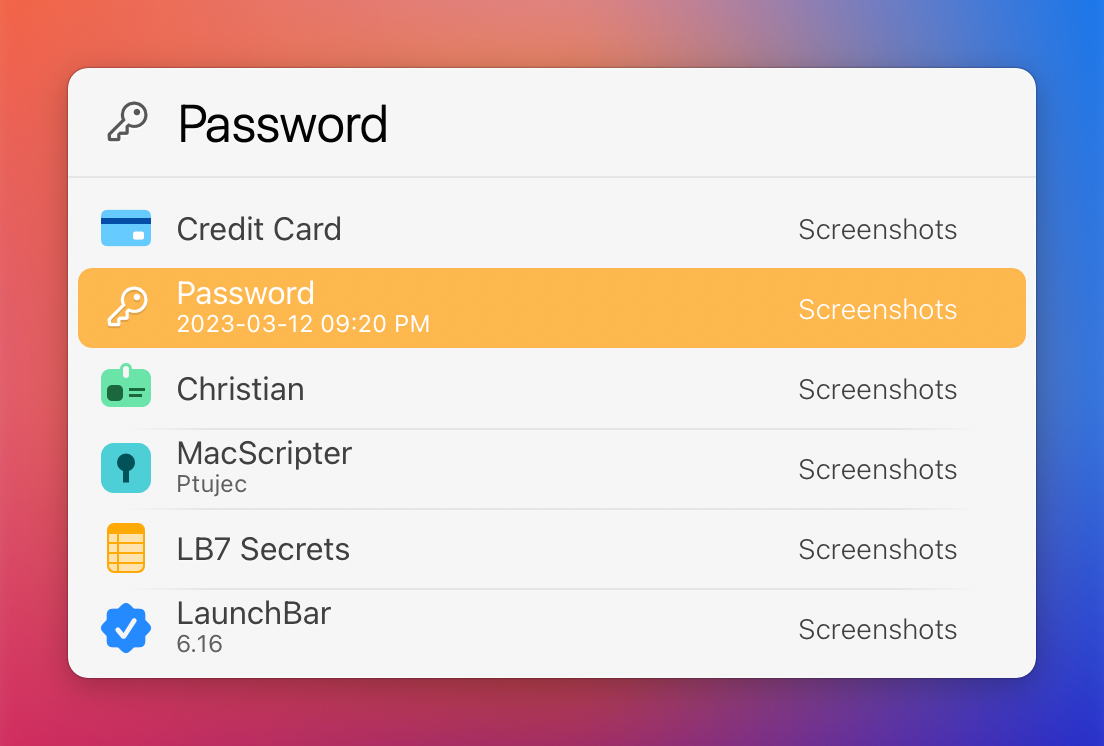
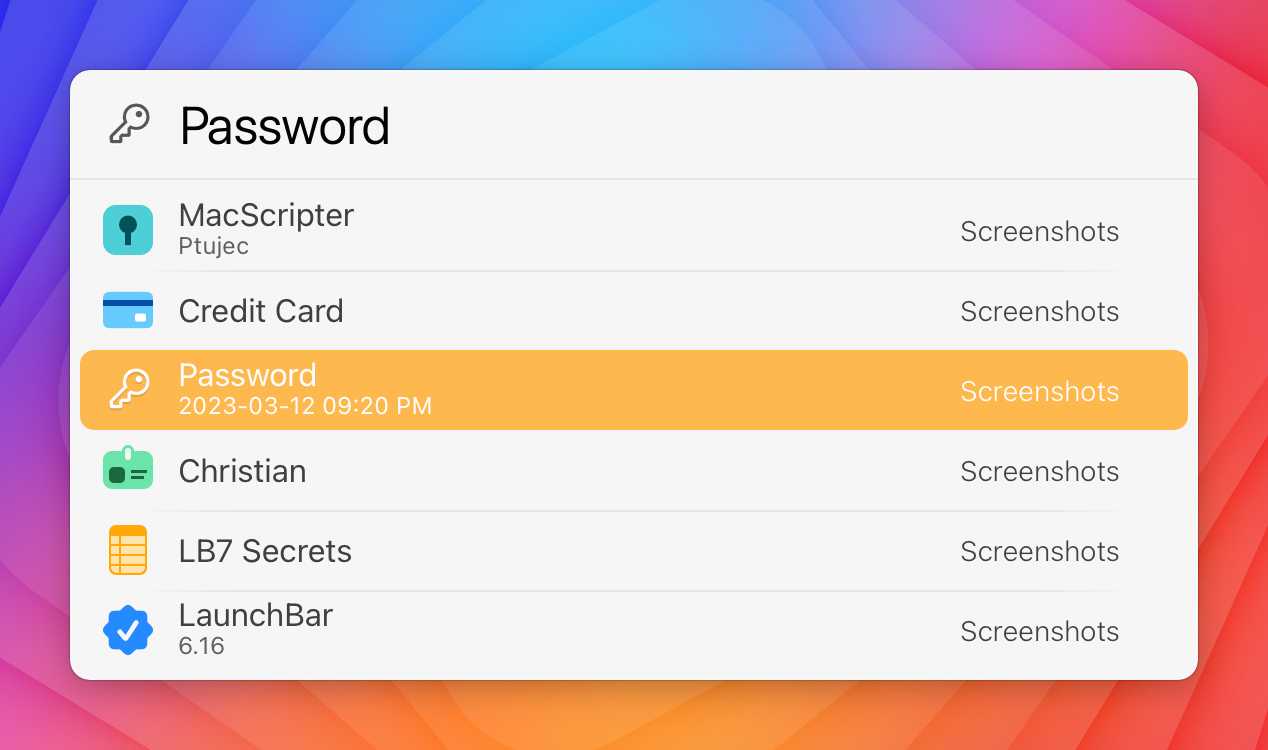
1.0.9
- updated screenshots/ read me
- prompt to sign in on autofill if 1P is locked
- option to choose secondary browser for open and autofill
- updated icon

diff --git a/Passwords/Passwords.lbaction/Contents/Scripts/default.js b/Passwords/Passwords.lbaction/Contents/Scripts/default.js
@@ -1,12 +1,11 @@
-/* 
+/*
 Passwords - 1Password 8 Action for LaunchBar
 by Christian Bender (@ptujec)
 2023-03-10
 
 Copyright see: https://github.com/Ptujec/LaunchBar/blob/master/LICENSE
 
-Documentation: 
-
+Documentation:
   1Password:
   - https://developer.1password.com/docs/cli/create-item/#retrieve-an-item
   - https://developer.1password.com/docs/cli/reference/management-commands/item#item-get
@@ -16,27 +15,23 @@ Documentation:
   - https://developer.obdev.at/launchbar-developer-documentation/#/javascript-launchbar
   - https://www.obdev.at/resources/launchbar/help/URLCommands.html
 
-Alfed Workflow: 
+Alfed Workflow:
 - https://github.com/alfredapp/1password-workflow
 Raycast Extension:
 - https://github.com/khasbilegt/1Password/tree/main
 
-
-
-
-
-
 TODO:
-- Detect if app is locked (waiting on info how to)
+- German localization
 - Settings
-  - require login every time?
   - update on open item?
   - show/hide additional_information (subtitles)
-- Support for alternative Browser
 */
 
 const localJSONFile = Action.supportPath + '/list.json';
 const op = '/usr/local/bin/op';
+const altBrowser = File.readJSON(
+  Action.path + '/Contents/Resources/browser.json'
+);
 
 function run() {
   var accountID = Action.preferences.accountID;
@@ -49,7 +44,7 @@ function run() {
   ) {
     var response = LaunchBar.alert(
       'First run info:',
-      '1) This actions requires 1Password\'s CLI.\nPress "Open guide" for how to install and enable it.\n2) Then press "Get started" and choose your account. You can pick a different one later in action settings (⌥↩).\nFor performance reasons the output is stored in a JSON file in the action\'s support folder. Refresh data in action settings (⌥↩).\nYou will get a notification when the setup/refresh is completed.\nBoth the Preferences.plist and the JSON file can be found here: ~/Library/Application Support/LaunchBar/Action Support/ptujec.LaunchBar.action.Passwords/.',
+      '1) This actions requires 1Password\'s CLI.\nPress "Open guide" for how to install and enable it. (Follow the "Install" instructions and also make sure you do step 1 of "Sign in".)\n2) Then press "Get started" and choose your account. You can pick a different one later in action settings (⌥↩).\nFor performance reasons the output is stored in a JSON file in the action\'s support folder. Refresh data in action settings (⌥↩).\nYou will get a notification when the setup/refresh is completed.\nBoth the Preferences.plist and the JSON file can be found here: ~/Library/Application Support/LaunchBar/Action Support/ptujec.LaunchBar.action.Passwords/.',
       'Open guide',
       'Get started',
       'Cancel'
@@ -70,19 +65,8 @@ function run() {
   }
 
   if (LaunchBar.options.alternateKey) {
-    return [
-      {
-        title: 'Choose account and update action data',
-        icon: 'accountsTemplate',
-        action: 'showAccounts',
-      },
-      {
-        title: 'Update action data',
-        icon: 'updateTemplate',
-        action: 'updateLocalData',
-        actionRunsInBackground: true,
-      },
-    ];
+    var output = settings();
+    return output;
   }
 
   var list = File.readJSON(localJSONFile);
@@ -122,7 +106,6 @@ function run() {
 
     if (!File.exists(iconPath)) {
       pushData.icon = 'genericTemplate';
-      // pushData.subtitle = category;
     }
 
     if (category == 'login') {
@@ -144,7 +127,34 @@ function run() {
   return all;
 }
 
-// Set up and maintainance functions
+// SET UP AND MAINTAINANCE FUNCTIONS
+
+function settings() {
+  if (Action.preferences.secondaryBrowser != undefined) {
+    var browserIcon = Action.preferences.secondaryBrowser;
+  } else {
+    var browserIcon = 'browserTemplate';
+  }
+  return [
+    {
+      title: 'Choose account and update action data',
+      icon: 'accountsTemplate',
+      action: 'showAccounts',
+    },
+    {
+      title: 'Update action data',
+      icon: 'updateTemplate',
+      action: 'updateLocalData',
+      actionRunsInBackground: true,
+    },
+    {
+      title: 'Secondary browser',
+      icon: browserIcon,
+      children: chooseSecondaryBrowser(),
+    },
+  ];
+}
+
 function showAccounts() {
   var accounts = LaunchBar.execute(op, 'account', 'list', '--format=json');
 
@@ -158,11 +168,6 @@ function showAccounts() {
   }
 
   accounts = JSON.parse(accounts);
-
-  // if (accounts.length == 1) {
-  //   setAccountID(accounts[0].account_uuid);
-  //   return;
-  // }
 
   var results = [];
   accounts.forEach(function (item) {
@@ -196,7 +201,7 @@ function updateLocalData() {
   LaunchBar.hide();
   var test = signIn();
 
-  if (test != 'exit') {
+  if (test != 'success') {
     LaunchBar.alert(test);
     LaunchBar.hide();
     LaunchBar.execute(
@@ -238,20 +243,39 @@ function signIn() {
   var cmd =
     '/usr/local/bin/op signin --account ' + Action.preferences.accountID;
 
-  var test = LaunchBar.executeAppleScript(
+  return LaunchBar.executeAppleScript(
     'try',
     '	set _e to do shell script "' + cmd + '"',
     'on error _e',
     '	return _e as string',
     '	tell application "LaunchBar" to activate',
     'end try',
-    'tell me to "exit"'
+    'tell me to "exit"',
+    'return "success"'
   ).trim();
-
-  return test;
 }
 
-// Action functions
+function chooseSecondaryBrowser() {
+  var result = [];
+  altBrowser.forEach(function (item) {
+    result.push({
+      title: item.title,
+      icon: item.bundleID,
+      action: 'setSecondaryBrowser',
+      actionArgument: item.bundleID,
+    });
+  });
+  return result;
+}
+
+function setSecondaryBrowser(bID) {
+  Action.preferences.secondaryBrowser = bID;
+
+  var output = settings();
+  return output;
+}
+
+// ACTION FUNCTIONS
 
 function actions(item) {
   LaunchBar.hide();
@@ -278,9 +302,7 @@ function actions(item) {
 }
 
 function viewItem(item) {
-  // TODO: Detec if 1Password is locked and only use this when locked
   LaunchBar.openURL('file:///Applications/1Password.app/');
-  //
 
   var urlScheme =
     'onepassword://view-item/i?a=' +
@@ -291,12 +313,21 @@ function viewItem(item) {
     item.id;
 
   LaunchBar.openURL(urlScheme);
-  // updateLocalData();
 }
 
 function openURL(item) {
-  // TODO: Detec if 1Password is locked and only use this when locked
-  // signIn();
+  // Checks if the menu bar item to lock 1P is enabled. So 'true' means 1P is unlocked. If it is false it will try to sign in. The current method is not ideal because it relies on GUI scripting. But it seems currently the only possible way.
+  var test = checkLocked();
+  if (test != 'success') {
+    LaunchBar.alert(test);
+    LaunchBar.hide();
+    LaunchBar.execute(
+      op,
+      'signout',
+      '--account=' + Action.preferences.accountID
+    );
+    return;
+  }
 
   var url = item.url;
   if (!url.startsWith('http')) {
@@ -305,9 +336,10 @@ function openURL(item) {
 
   url = url + '?' + getRandomID() + '=' + item.id;
 
-  // TODO: alternative Browser support
+  // Secondary Browser
   if (LaunchBar.options.alternateKey) {
-    LaunchBar.openURL(url, 'Brave Browser');
+    // LaunchBar falls back to default browser is no secondary browser is set up in action preferences
+    LaunchBar.openURL(url, Action.preferences.secondaryBrowser);
   } else {
     LaunchBar.openURL(url);
   }
@@ -323,4 +355,39 @@ function getRandomID() {
     result += characters.charAt(Math.floor(Math.random() * characters.length));
   }
   return result;
+}
+
+function checkLocked() {
+  if (Action.preferences.accountID == undefined) {
+    var output = showAccounts();
+    return output;
+  }
+
+  var cmd =
+    '/usr/local/bin/op signin --account ' + Action.preferences.accountID;
+
+  return LaunchBar.executeAppleScript(
+    'tell application "System Events"',
+    '	if (name of processes) contains "1Password" then',
+    '		try',
+    '			tell process "1Password"',
+    '				set AXEnabled to value of attribute "AXEnabled" of menu item 5 of menu "1Password" of menu bar item "1Password" of menu bar 1 of application process "1Password" of application "System Events"',
+    '			end tell',
+    '		end try',
+    '	else',
+    '		set AXEnabled to false',
+    '	end if',
+    '	',
+    '	if AXEnabled is false then',
+    '		try',
+    '			set _e to do shell script "' + cmd + '"',
+    '		on error _e',
+    '			return _e as string',
+    '			tell application "LaunchBar" to activate',
+    '		end try',
+    '		tell me to "exit"',
+    '	end if',
+    'end tell',
+    'return "success"'
+  ).trim();
 }

diff --git a/Passwords/README.md b/Passwords/README.md
@@ -2,32 +2,36 @@
 
 *[→ See a list of all my actions here.](https://ptujec.github.io/launchbar)* 
 
-After a little setup (see below) you can view a list of all your login and other items from 1Password 8 in LaunchBar. 
+<img src="01.png" width="634"/>
 
-You can view items also when 1Password is selected simply by pressing `space`. 
-
-<img src="01.png" width="552"/>
-
-**Note:** The data received from the CLI does not contain any passwords or secure information. You can enter `op item list --format=json` in the Terminal to see what data is retrieved. For performance reasons the output is stored in a JSON file in the action's support folder, which can be found in `~/Library/Application Support/LaunchBar/Action Support/`.
+After a little setup ([see below](#setup)) you can view a list of all your login and other items from 1Password 8 in LaunchBar. 
 
 ## Features 
 
-If you hit enter on a selected **login item** it will by default **open the url** and try to **autofill** the relevant information securely in your default browser. If you want to view the item in 1Password instead hit `⌘↩`.
+- You can view items also when 1Password is selected simply by pressing `space` or `→`. 
+- Login items will open and autofill by default. 
+- Other items will open in 1Password by default. 
+- You can alter the default behavior with `⌘↩`. 
+- You can open login items in a secondary browser with `⌥↩`. (Other items that contain an URL with `⌥⌘↩`.) 
 
-Other items will **open in 1Password** by default. If there is an url connected to an item (that is not a login item) you can open that with `⌘↩`. 
+## Settings 
 
+In action settings you can choose a secondary browser and refresh data. Access the settings by selecting the action and then press `⌥↩`.
+
+<img src="02.png" width="634"/>
 
 ## Setup
 
-This action requires 1Password's CLI. [Learn how to install and set it up on their website!](https://developer.1password.com/docs/cli/get-started#install). (Follow the "Install" instructions and also make sure you do step 1 of "Sign in".)
+This action requires 1Password's CLI. [Learn how to install and set it up on their website!](https://developer.1password.com/docs/cli/get-started#install). \
+Follow the "Install" instructions and also make sure you do step 1 of "Sign in".
+
+**Note:** The data received from the CLI does not contain any passwords or secure information. You can enter `op item list --format=json` in the Terminal to see what data is retrieved. For performance reasons the output is stored in a JSON file in the action's support folder, which can be found in `~/Library/Application Support/LaunchBar/Action Support/`.
 
 ## Limitations
 
-1) The action does not copy any passwords. In theory it would be possible to copy passwords to the clipboard. But those would also appear in your clipboard history. You would need to exclude LaunchBar from the clipboard history to prevent that. But this in turn would effect every other built in or custom action. 
-
-2) Because this is just a standard user action there is no indexing going on in the background. To refresh data press `⌥↩`. (You need to do that with the action selected. I won't work if you have 1Password selected.)
-
-3) Autofill and view item in 1Password actions won't work if 1Password 8 is locked.  
+- The action does not copy any passwords. In theory it would be possible to copy passwords to the clipboard. But those would also appear in your clipboard history. You would need to exclude LaunchBar from the clipboard history to prevent that. But this in turn would effect every other built in or custom action. 
+- Because this is just a standard user action there is no indexing going on in the background. You need to refresh data manually in the action settings. `⌥↩`. Access the settings by selecting the action and then press `⌥↩`.
+- You need to be signed-in either in the CLI or 1Password for autofill to work. You get a prompt if that is not the case. But it may still fail if you use it for the first time after a sign-in. Just open the item again. It should be still selected in LaunchBar. (The 1Password team is looking into this issue.)  
 
 ## Download
 
